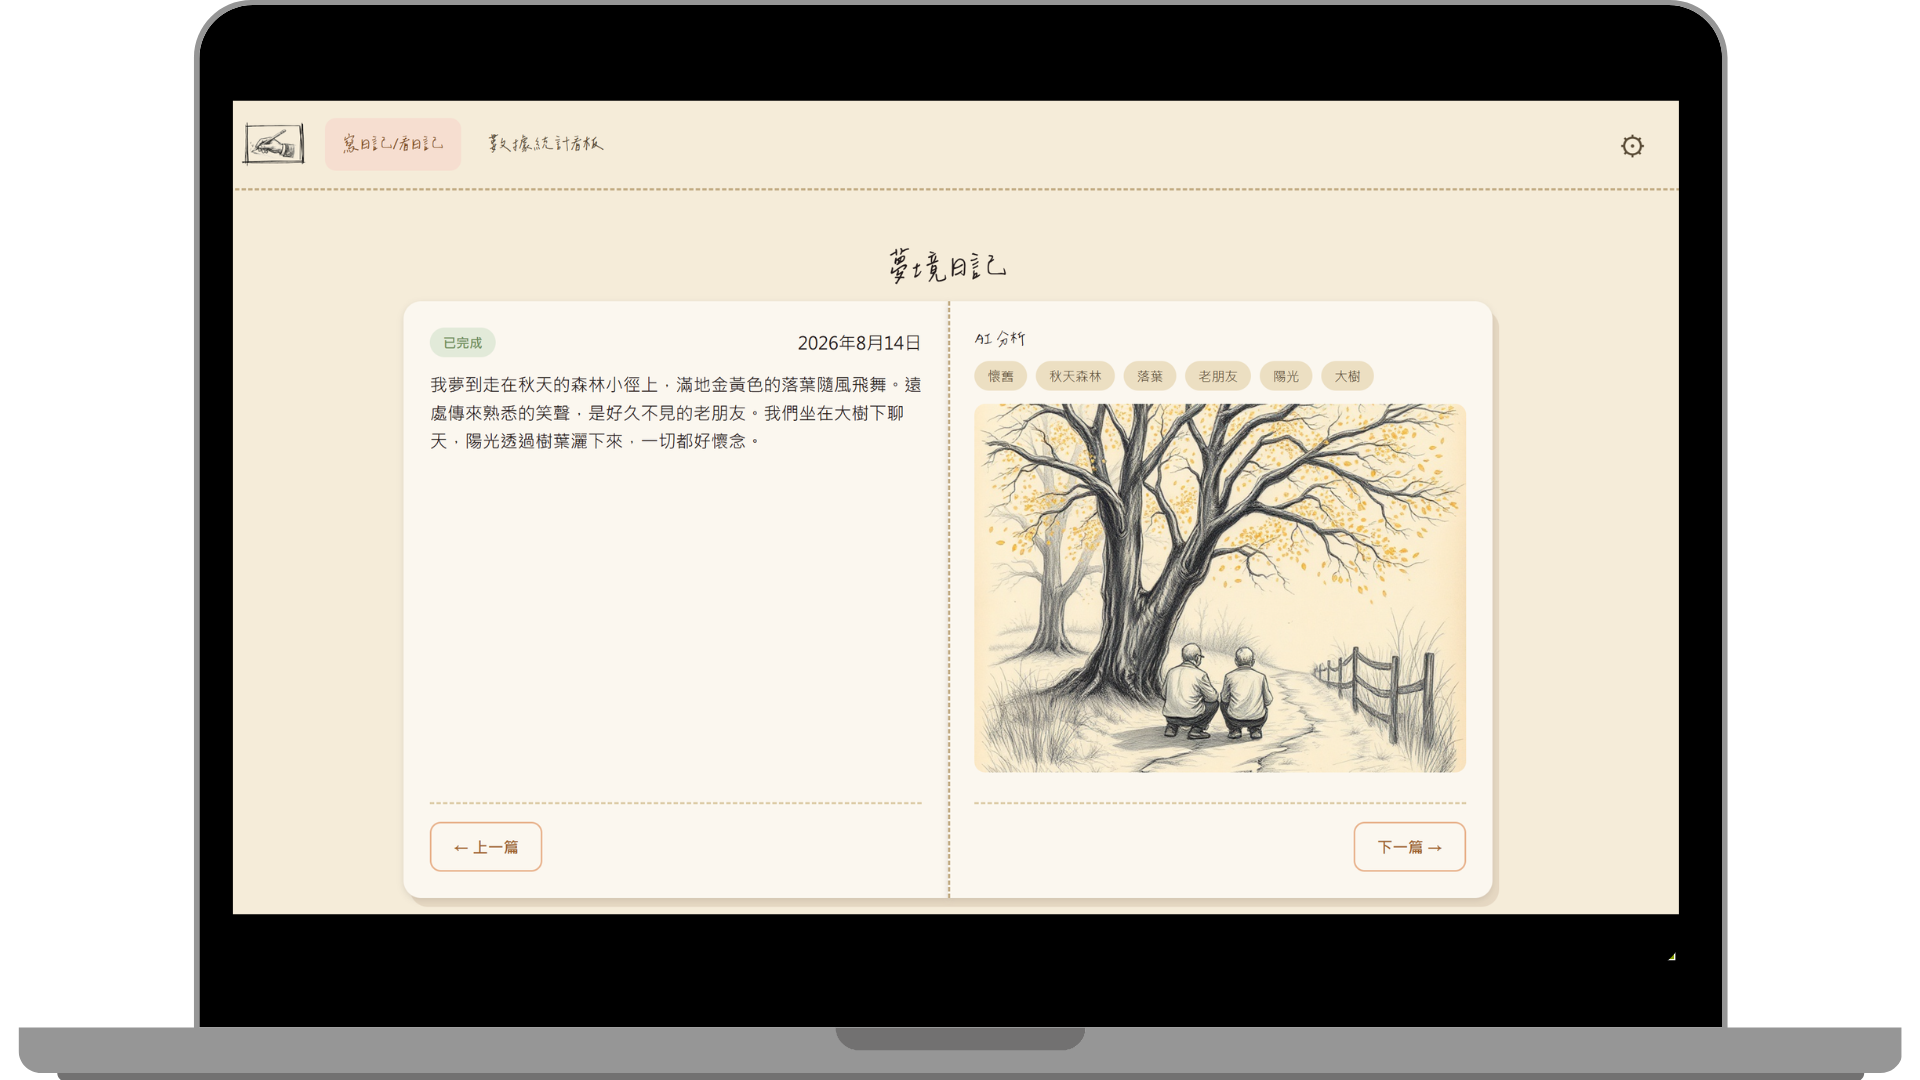
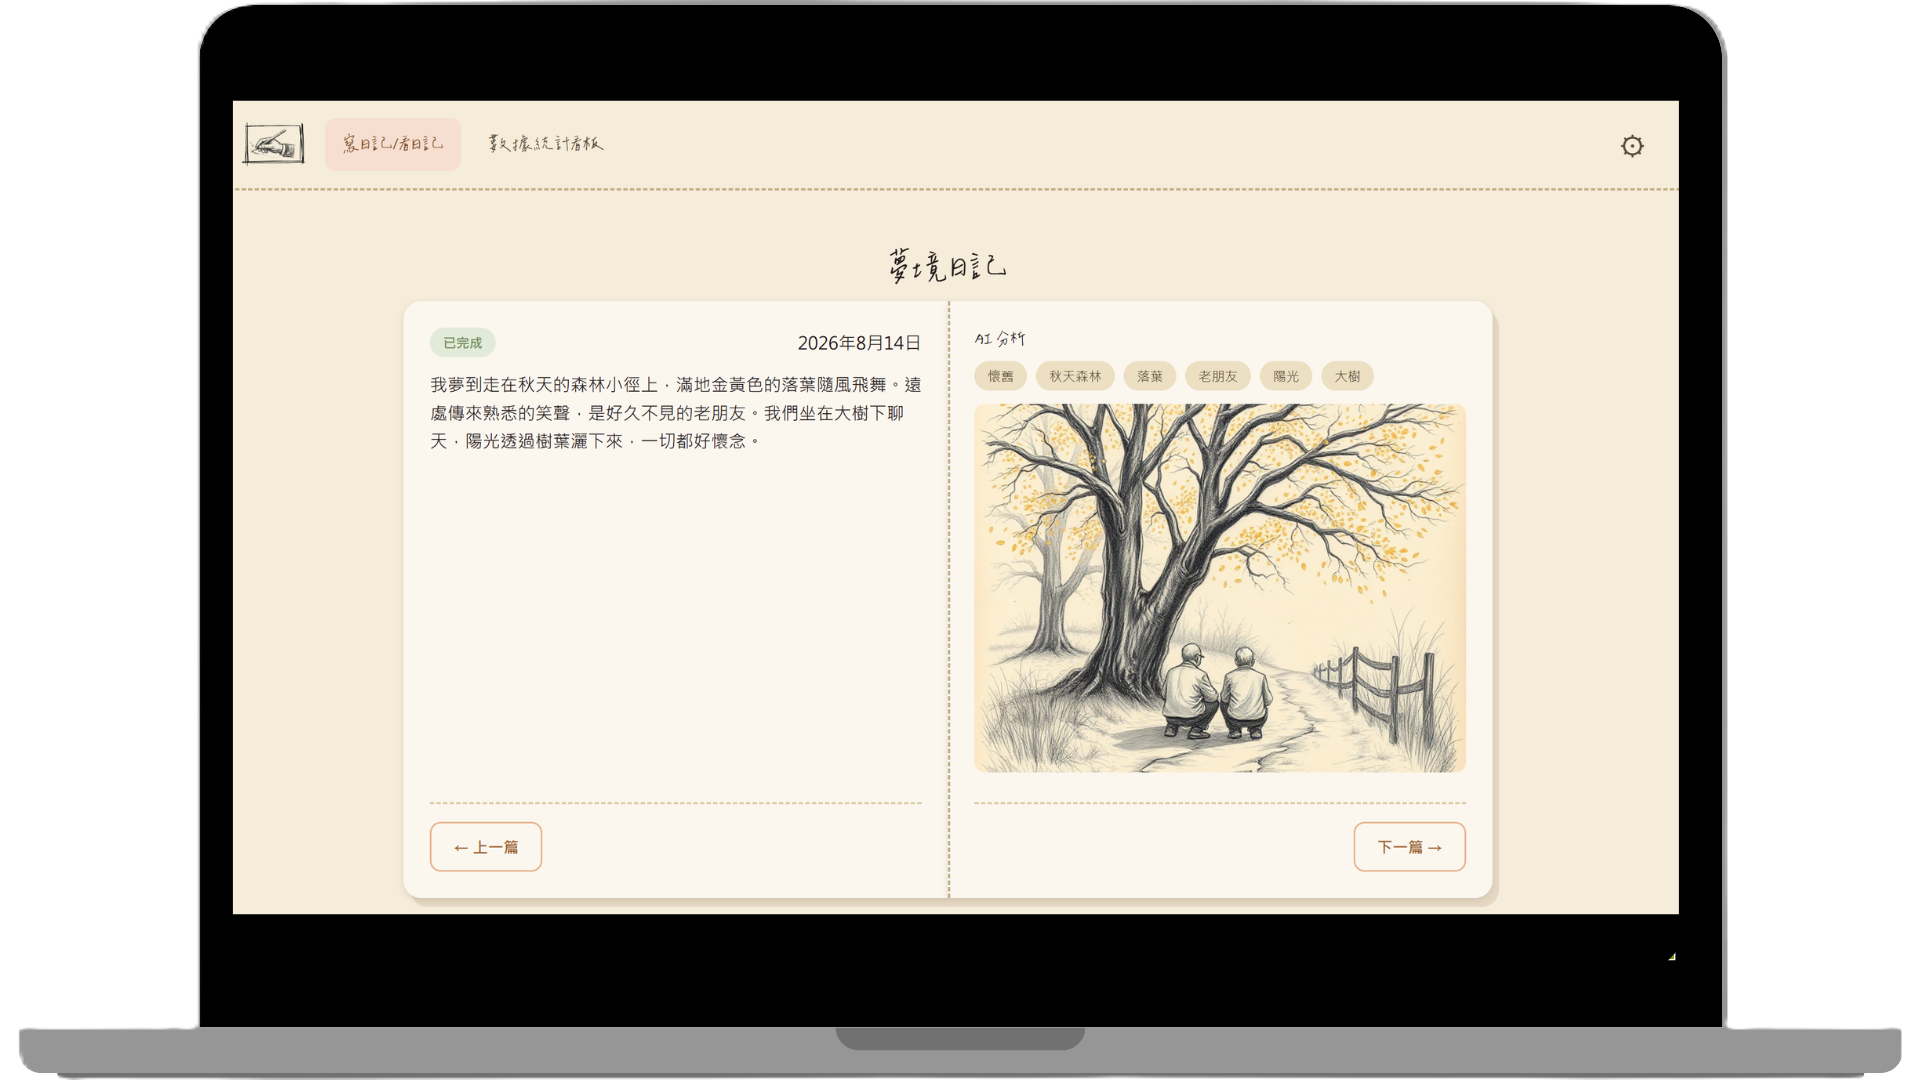
新增專案-pro5

Changed region(s): [[0.0312, 0.9778, 0.9688, 1.0], [0.0938, 0.0, 0.2188, 0.0611], [0.8125, 0.0, 0.875, 0.0306]]

diff --git a/src/sections/Projects.jsx b/src/sections/Projects.jsx
@@ -20,6 +20,7 @@ import dpDemoGif from "../assets/3dp-demo.gif";
 import letivDemoPng from "../assets/letiv-demo.png";
 import letivDemoGif from "../assets/letiv-demo.gif";
 import dreamDemoPng from "../assets/ai-dream-journal-demo.png";
+import pro5DemoPng from "../assets/pro5-demo.png";
 
 const Projects = () => {
   const [imageCa, setImageCa] = useState(caDemoSvg);
@@ -36,6 +37,8 @@ const Projects = () => {
     project3Text,
     project4Title,
     project4Text,
+    project5Title,
+    project5Text,
   } = t("projectsPage");
 
   // 2021 Canada Travelogue
@@ -75,6 +78,18 @@ const Projects = () => {
     { key: 3, label: "express" },
     { key: 4, label: "pollinations.ai" },
     { key: 5, label: "google gemini api" },
+  ];
+
+  //pro5
+  //ai-dream-journal
+  const chipProject5Data = [
+    { key: 0, label: "react" },
+    { key: 1, label: "typescript" },
+    { key: 2, label: "next.js" },
+    { key: 3, label: "Supabase postgres" },
+    { key: 4, label: "resend" },
+    { key: 5, label: "vercel" },
+    { key: 5, label: "vitest" },
   ];
 
   const ProductsCard = ({ title, text, chipData, codeLink, liveLink }) => {
@@ -166,6 +181,33 @@ const Projects = () => {
           maxWidth: 900,
         }}
       >
+        {/*pro5*/}
+        <Stack
+          direction={{ xs: "column", sm: "row" }}
+          spacing={{ xs: 1, sm: 2, md: 4 }}
+          justifyContent="center"
+          alignItems="center"
+          mb={4}
+        >
+          <Box
+            component="img"
+            src={pro5DemoPng}
+            alt="pro5-demo"
+            sx={{
+              p: 1,
+              height: { xs: 197, md: 280 },
+              width: { xs: 350, md: 497 },
+            }}
+          />
+          <ProductsCard
+            title={project5Title}
+            text={project5Text}
+            chipData={chipProject5Data}
+            codeLink={"https://github.com/zoewang7512/pro5"}
+            liveLink={"https://pro5-nu.vercel.app/"}
+          />
+        </Stack>
+
         {/**ai-dream-journal*/}
         <Stack
           direction={{ xs: "column", sm: "row" }}
